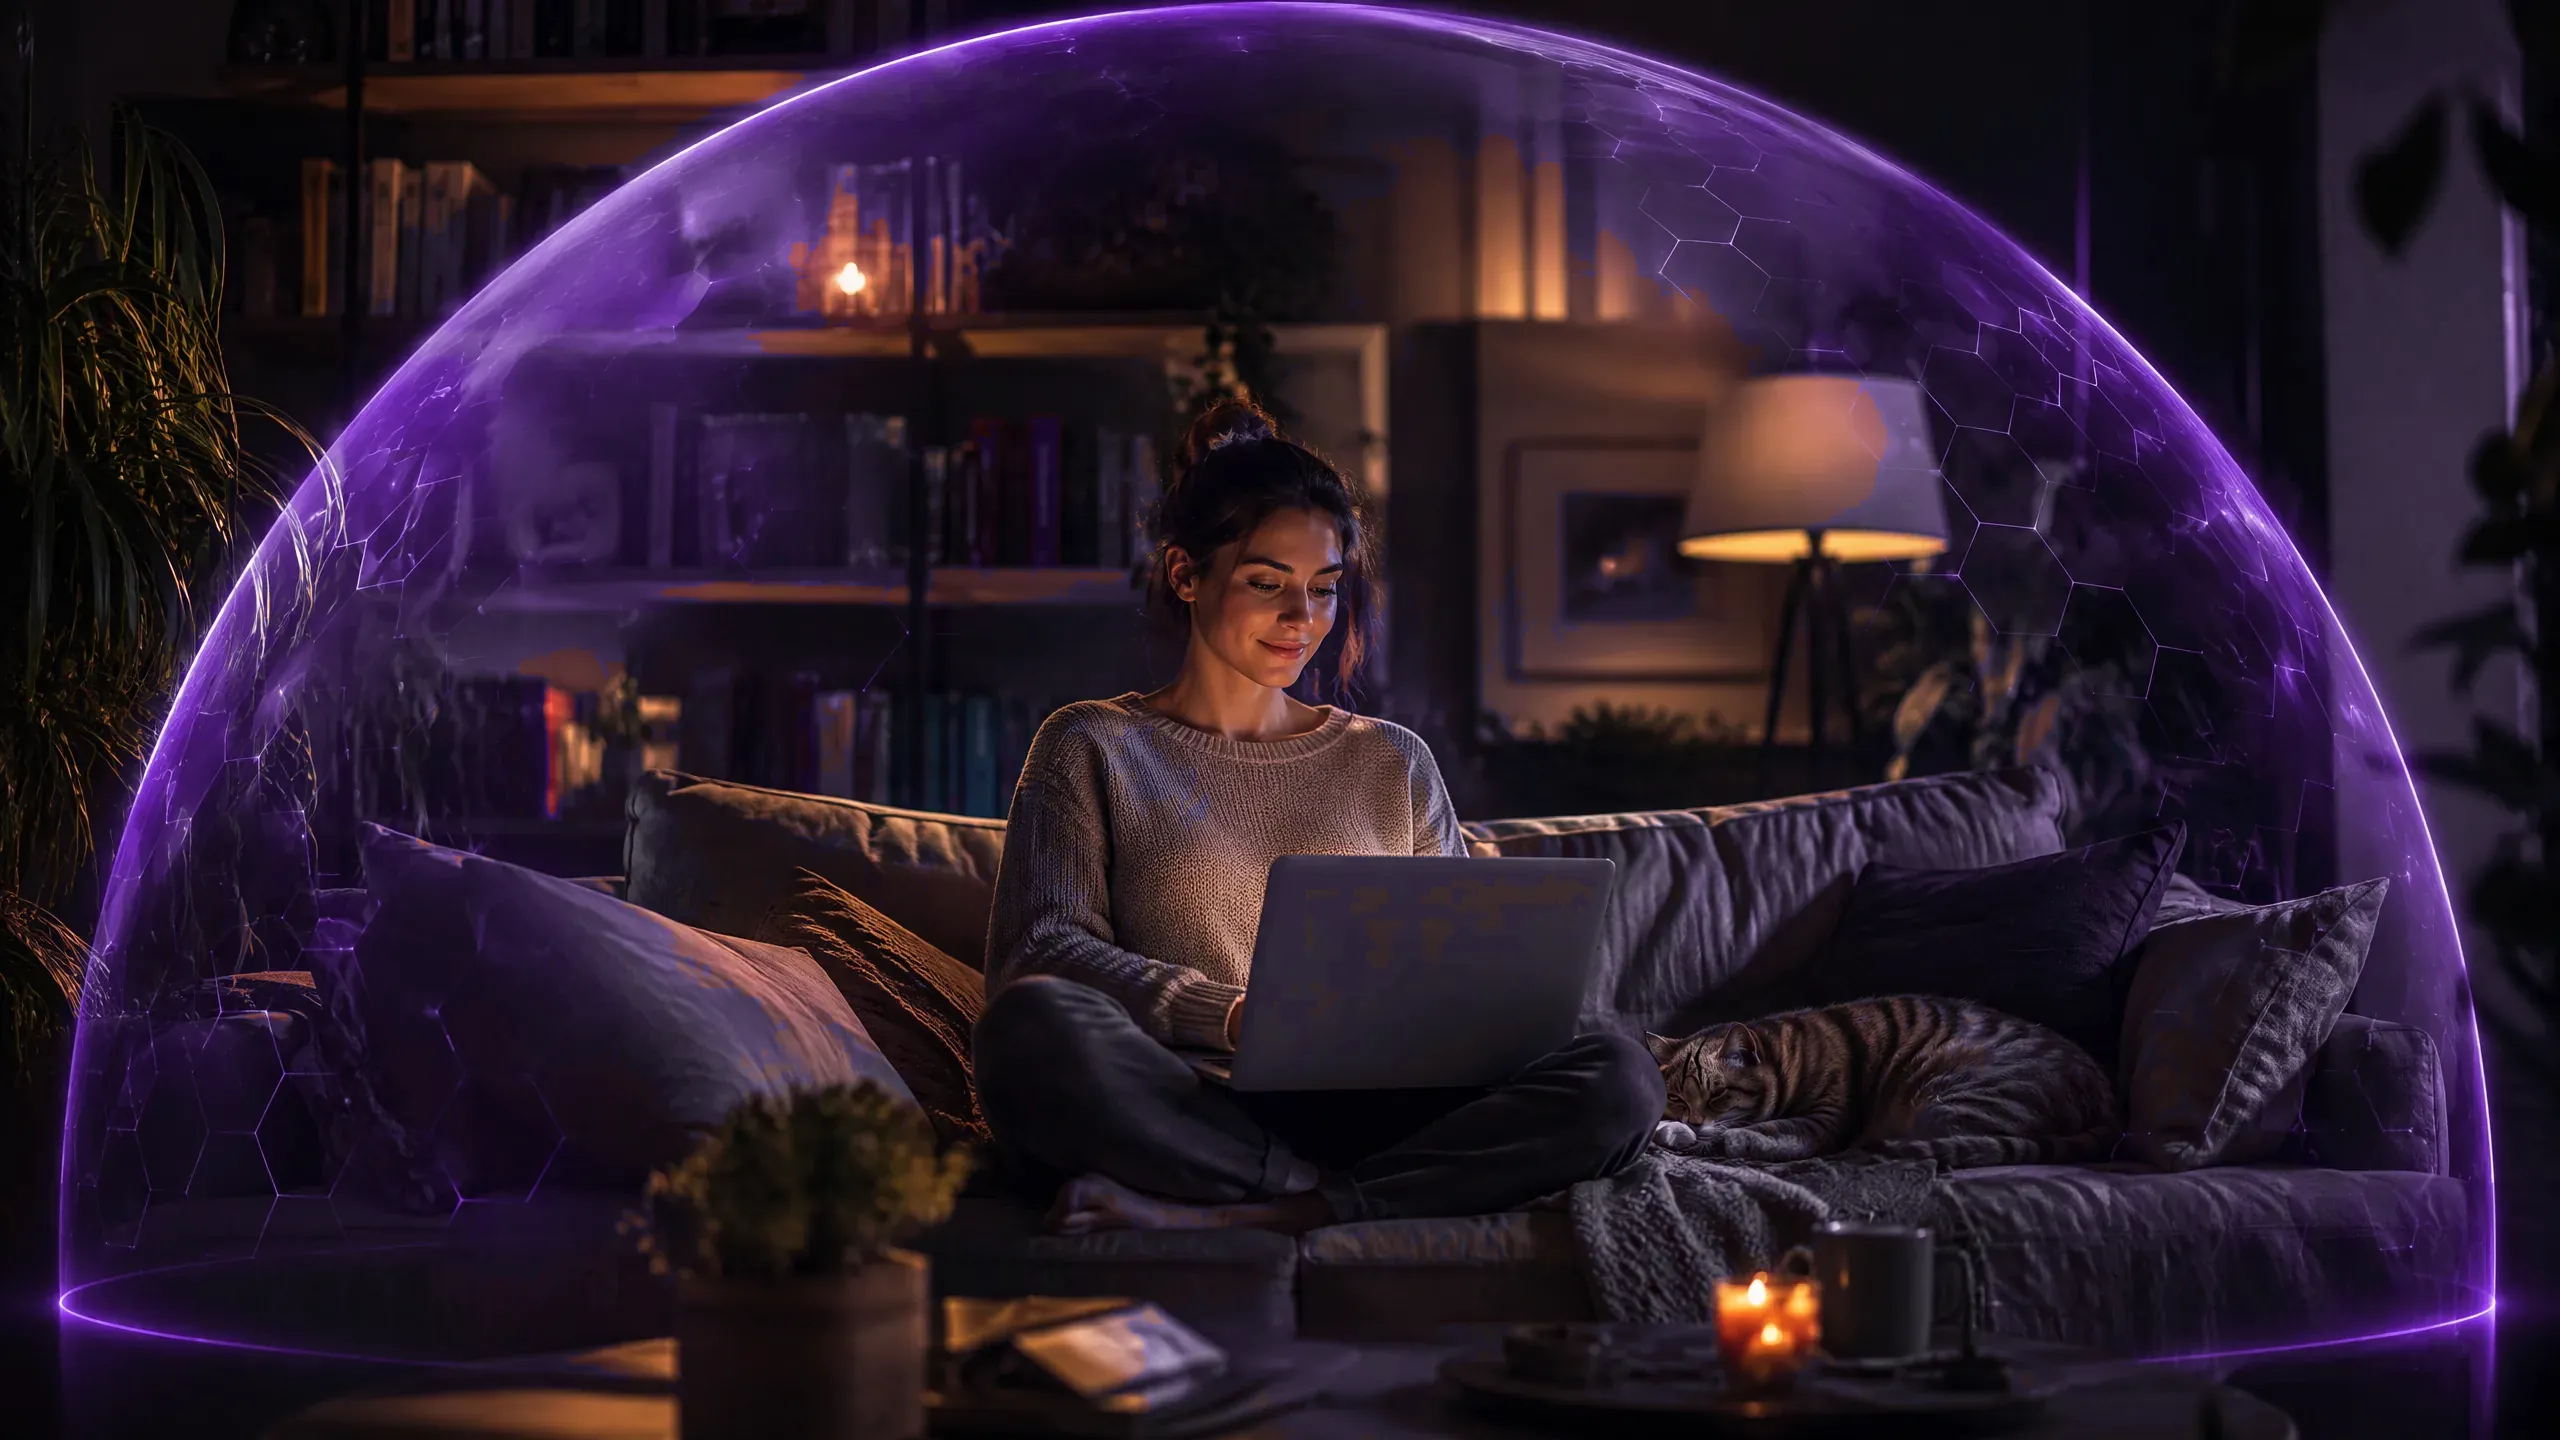
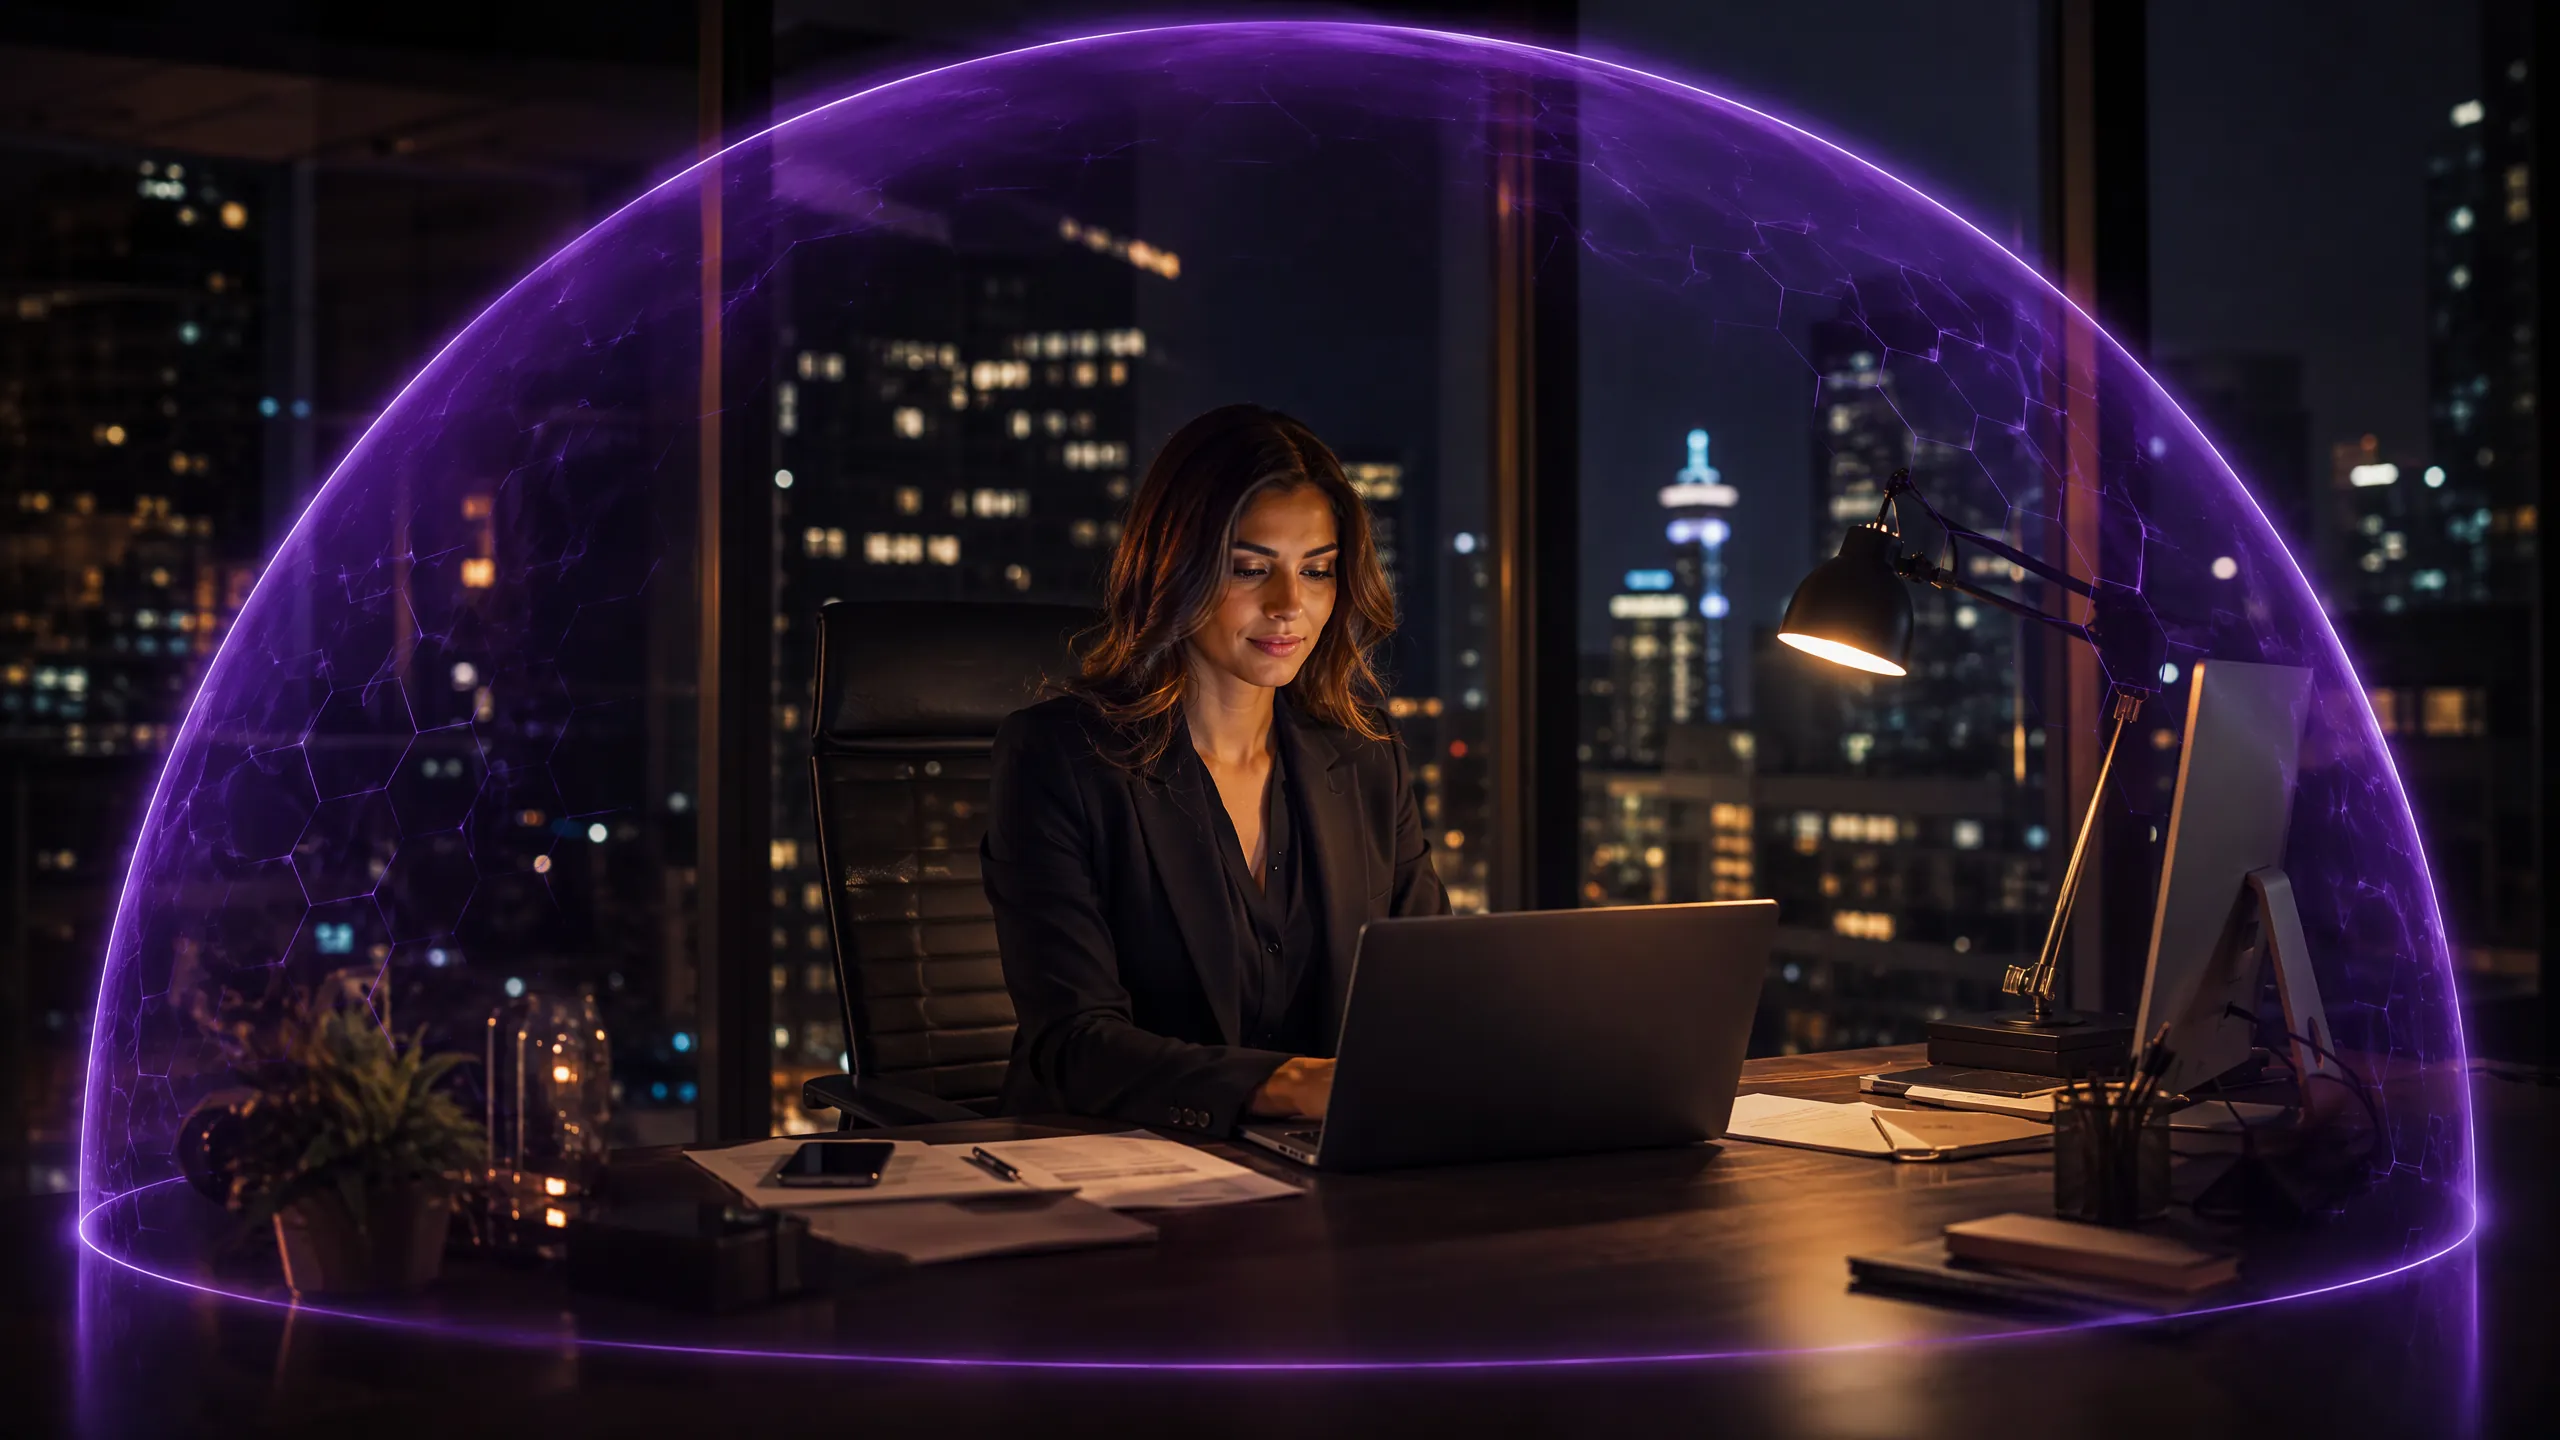
Update personal-benefits showcase images
New dark and day photos for the "Kişisel Faydalar" home-page card, with
updated alt text. Extracted from opunta-web-sitesi-2.html; re-inlining
reproduces the original file byte-for-byte.

diff --git a/index.html b/index.html
@@ -72,7 +72,7 @@
   <section class="showcase">
     <div class="container">
       <div class="showcase-card reveal">
-        <img class="bg-dark" src="assets/img/showcase-personal-dark.webp" alt="Şeffaf mor koruma kubbesi altında evinde dizüstü bilgisayarıyla rahatça çalışan bir kişi" width="2560" height="1440" loading="lazy">
+        <img class="bg-dark" src="assets/img/showcase-personal-dark.webp" alt="Şeffaf mor koruma kubbesi altında gece ofisinde masa lambası ışığında dizüstü bilgisayarıyla çalışan bir ofis çalışanı" width="2560" height="1440" loading="lazy">
         <img class="bg-day" src="assets/img/showcase-personal-day.webp" alt="" width="2560" height="1440" loading="lazy" aria-hidden="true">
         <div class="streak-layer" aria-hidden="true"></div>
         <div class="showcase-overlay">
